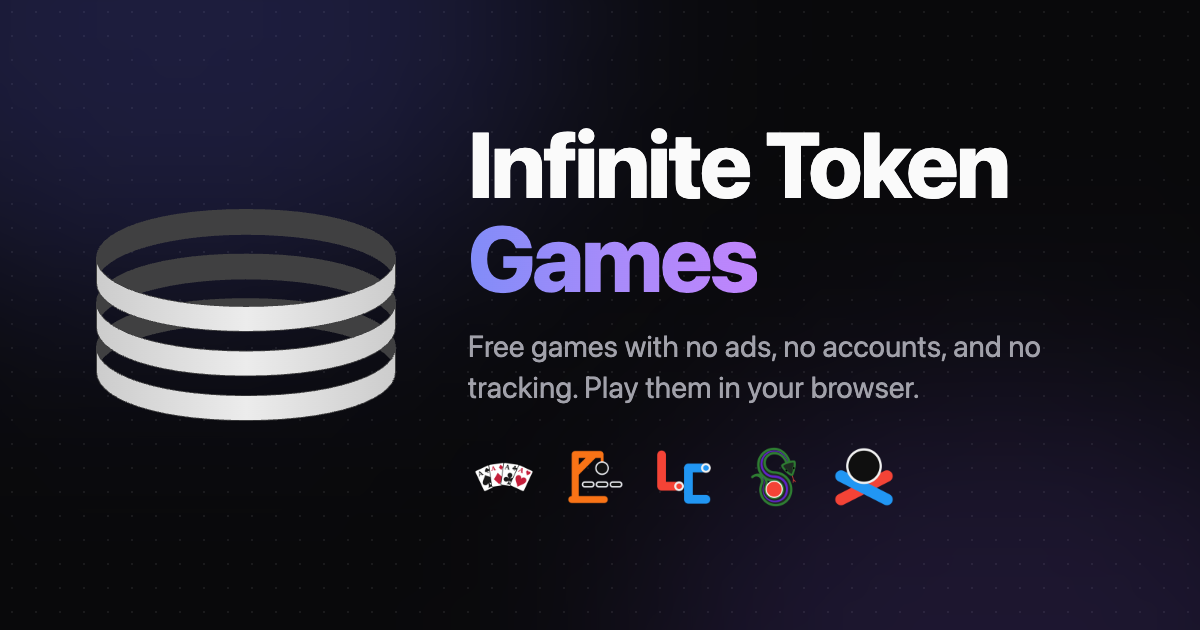
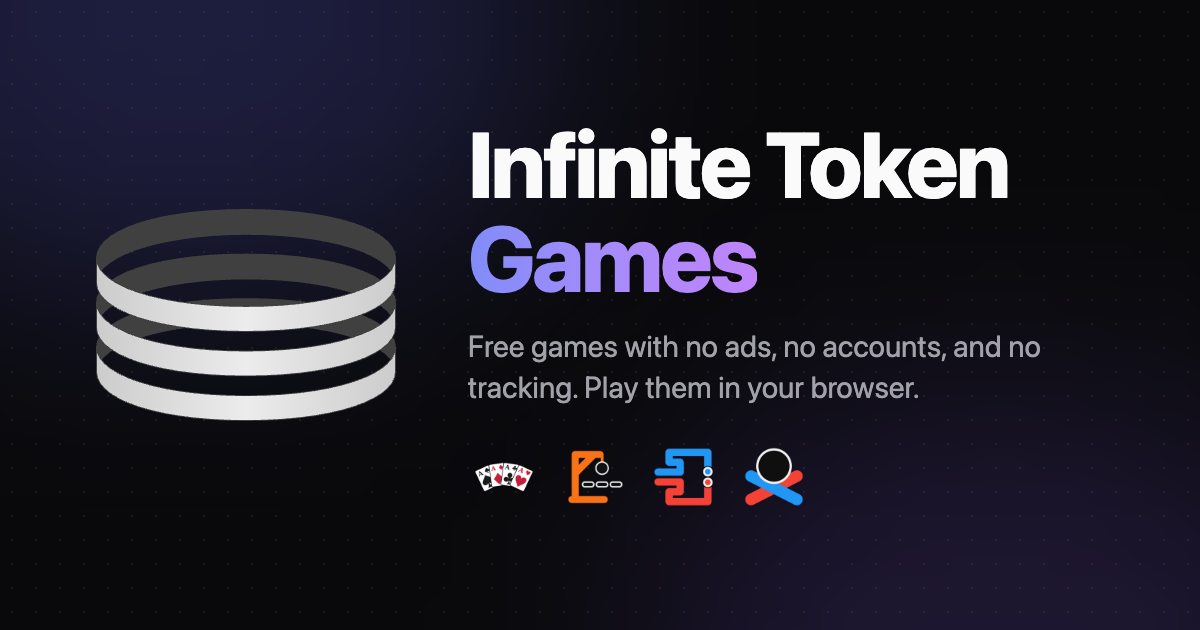
CardTastic and DuelTastic replace Solitaire, LightCycles and Snake: CardTastic at /cardtastic/ (Solitaire's formerSlugs, so /solitaire/... 308s to the same page under /cardtastic/), and DuelTastic at /dueltastic/, a pack whose games field lists Trap, Turf, Tag and Snake, each linked from its card an

Changed region(s): [[0.5242, 0.6937, 0.74, 0.8143]]

diff --git a/src/constants/site.ts b/src/constants/site.ts
@@ -37,14 +37,20 @@ export type StoreLinks = {
   googlePlay?: string
 }
 
+/** One game inside a pack: its name and the page the pack's Home opens for it, relative to the pack's /<slug>/.
+ *  `formerSlug` is the path it had as an app of its own: /<formerSlug> and everything under it 308 to this page
+ *  (src/utils/vercelRoutes.ts), since its old pages have no counterpart in the pack. */
+export type PackGame = { name: string; path: string; formerSlug?: string }
+
 export type TasticGame = StoreLinks & {
   /** The path the game is served at (games.infinitetoken.com/<slug>/) and its Vercel project's name */
   slug: string
   /** The home-screen and web name */
   name: string
   author: Author
-  /** The App Store name, the game's eas.json submit.production.ios.appName: the name plus "Tastic", except
-   *  LightCycleTastic (Jay, 2026-10-19) */
+  /** The App Store name, the game's eas.json submit.production.ios.appName: the name plus "Tastic", or the name itself
+   *  for a pack, whose name already ends in Tastic, except CardTastic's "CardTastic: Solitaire & More" ("CardTastic"
+   *  alone was taken) */
   storeName: string
   description: string
   /** The game's splash art (assets/images/splash-dark.png at 192px), transparent, drawn bare on the dark card */
@@ -53,18 +59,24 @@ export type TasticGame = StoreLinks & {
   /** The game's own production deployment, which /<slug>/ is proxied to (see src/utils/vercelRoutes.ts). The
    *  <project>-infinite-token.vercel.app aliases sit behind Vercel's login, so these are the public production aliases. */
   origin: string
+  /** Paths the game was served at before a rename, each redirected to /<slug>/ with the rest of the path kept */
+  formerSlugs?: string[]
+  /** A pack's games, in its Home's order: the card links each one, and the sitemap lists them */
+  games?: PackGame[]
 }
 
 export const TASTIC_GAMES: TasticGame[] = [
   {
-    slug: 'solitaire',
-    name: 'Solitaire',
+    slug: 'cardtastic',
+    name: 'CardTastic',
     author: AUTHORS.jay,
-    storeName: 'SolitaireTastic',
-    description: 'Eleven classic solitaire games in one, from Klondike and FreeCell to Pyramid and Aces Up.',
-    icon: '/images/tastic/solitaire.png',
-    repo: 'https://github.com/jayrdeaton/Solitaire',
-    origin: 'https://solitaire-bay.vercel.app'
+    storeName: 'CardTastic: Solitaire & More',
+    description: 'Twenty card games in one: eleven solitaire games and nine to play together, from Klondike and FreeCell to Gin Rummy and Crazy Eights.',
+    icon: '/images/tastic/cardtastic.png',
+    repo: 'https://github.com/jayrdeaton/CardTastic',
+    origin: 'https://cardtastic-web.vercel.app',
+    // Solitaire until 2026-11-11
+    formerSlugs: ['solitaire']
   },
   {
     slug: 'hangman',
@@ -77,24 +89,21 @@ export const TASTIC_GAMES: TasticGame[] = [
     origin: 'https://hangman-teal-psi.vercel.app'
   },
   {
-    slug: 'lightcycles',
-    name: 'LightCycles',
+    slug: 'dueltastic',
+    name: 'DuelTastic',
     author: AUTHORS.jay,
-    storeName: 'LightCycleTastic',
-    description: 'A light-cycle duel for two players on one screen, or one player against the CPU. Last rider still riding wins the round.',
-    icon: '/images/tastic/lightcycles.png',
-    repo: 'https://github.com/jayrdeaton/LightCycles',
-    origin: 'https://lightcycles-three.vercel.app'
-  },
-  {
-    slug: 'snake',
-    name: 'Snake',
-    author: AUTHORS.jay,
-    storeName: 'SnakeTastic',
-    description: 'Classic Snake, rebuilt for one shared screen: solo, against a CPU, or head-to-head with a friend.',
-    icon: '/images/tastic/snake.png',
-    repo: 'https://github.com/jayrdeaton/Snake',
-    origin: 'https://snake-drab-kappa.vercel.app'
+    storeName: 'DuelTastic',
+    description: 'Four duel games in one: Trap, Turf, Tag and Snake. Take on the CPU, or face a friend on one shared screen.',
+    icon: '/images/tastic/dueltastic.png',
+    repo: 'https://github.com/jayrdeaton/DuelTastic',
+    origin: 'https://dueltastic.vercel.app',
+    // LightCycles (as Trap) and Snake were apps of their own until 2026-11-11
+    games: [
+      { name: 'Trap', path: 'loadout/trap', formerSlug: 'lightcycles' },
+      { name: 'Turf', path: 'loadout/turf' },
+      { name: 'Tag', path: 'loadout/tag' },
+      { name: 'Snake', path: 'loadout/snake', formerSlug: 'snake' }
+    ]
   },
   {
     slug: 'boxhockey',

diff --git a/src/__tests__/vercelRoutes.test.ts b/src/__tests__/vercelRoutes.test.ts
@@ -8,7 +8,7 @@ const resolve = (path: string) => {
   for (const route of vercelRoutes(TASTIC_GAMES)) {
     const match = new RegExp(route.src).exec(path)
     if (!match) continue
-    return 'dest' in route ? { proxy: route.dest.replace('$1', match[1] ?? '') } : { redirect: route.headers.Location, status: route.status }
+    return 'dest' in route ? { proxy: route.dest.replace('$1', match[1] ?? '') } : { redirect: route.headers.Location?.replace('$1', match[1] ?? ''), status: route.status }
   }
   return null
 }
@@ -25,6 +25,30 @@ describe('vercelRoutes', () => {
 
   it.each(TASTIC_GAMES)('redirects the bare /$slug to /$slug/ permanently', ({ slug }) => {
     expect(resolve(`/${slug}`)).toEqual({ redirect: `/${slug}/`, status: 308 })
+  })
+
+  it("redirects a renamed game's old path, and everything under it, to the same place under its new one", () => {
+    const renamed = TASTIC_GAMES.filter((g) => g.formerSlugs?.length)
+    expect(renamed.map((g) => g.slug)).toContain('cardtastic')
+    for (const { slug, formerSlugs = [] } of renamed) {
+      for (const former of formerSlugs) {
+        expect(resolve(`/${former}`)).toEqual({ redirect: `/${slug}/`, status: 308 })
+        expect(resolve(`/${former}/`)).toEqual({ redirect: `/${slug}/`, status: 308 })
+        expect(resolve(`/${former}/play/klondike`)).toEqual({ redirect: `/${slug}/play/klondike`, status: 308 })
+      }
+    }
+  })
+
+  it('redirects a game that moved into a pack, and everything under its old path, to its page in the pack', () => {
+    const moved = TASTIC_GAMES.flatMap(({ slug, games = [] }) => games.filter((g) => g.formerSlug).map((g) => ({ ...g, pack: slug })))
+    expect(moved.map((g) => g.formerSlug)).toEqual(expect.arrayContaining(['lightcycles', 'snake']))
+    for (const { formerSlug, pack, path } of moved) {
+      for (const old of [`/${formerSlug}`, `/${formerSlug}/`, `/${formerSlug}/loadout`, `/${formerSlug}/_expo/static/js/web/entry.js`]) {
+        expect(resolve(old)).toEqual({ redirect: `/${pack}/${path}`, status: 308 })
+      }
+    }
+    expect(resolve('/lightcycles/')).toEqual({ redirect: '/dueltastic/loadout/trap', status: 308 })
+    expect(resolve('/snake')).toEqual({ redirect: '/dueltastic/loadout/snake', status: 308 })
   })
 
   it("leaves this site's own pages alone, including the 6502 pages that share a game's name", () => {

diff --git a/src/pages/privacy.vue b/src/pages/privacy.vue
@@ -30,7 +30,7 @@
 
       <section :class="section">
         <h2 :class="heading">Game Updates</h2>
-        <p :class="body">When you open one of the mobile apps, it checks for a game update using Expo's update service. That request includes technical details needed to deliver the right update, such as the app version and platform, and a random installation ID that isn't linked to you. Like any internet request, it also includes your IP address. It never includes your profiles, progress, or other game data. See <a href="https://expo.dev/privacy" target="_blank" rel="noopener" :class="link">Expo's Privacy Policy</a>.</p>
+        <p :class="body">When you open one of the mobile apps, it checks for a game update using Expo's update service. That request includes technical details needed to deliver the right update, such as the app version and platform, and a random installation ID that isn't linked to you. If an update fails to start, the next check also reports which update failed and the error it hit, so a broken update can be fixed. Like any internet request, it also includes your IP address. It never includes your profiles, progress, or other game data. See <a href="https://expo.dev/privacy" target="_blank" rel="noopener" :class="link">Expo's Privacy Policy</a>.</p>
       </section>
 
       <section :class="section">
@@ -78,7 +78,7 @@
 import { EMULATOR, SITE, TASTIC_GAMES } from '~/constants/site'
 import { backLink, body, card, link } from '~/constants/styles'
 
-const UPDATED = 'October 22, 2026'
+const UPDATED = 'November 11, 2026'
 const names = TASTIC_GAMES.map((g) => g.storeName)
 const storeNames = `${names.slice(0, -1).join(', ')}, and ${names.at(-1)}`
 

diff --git a/src/__tests__/seo.test.ts b/src/__tests__/seo.test.ts
@@ -10,11 +10,12 @@ const PAGES_DIR = resolve(process.cwd(), 'src/pages')
 const pageFiles = readdirSync(PAGES_DIR, { recursive: true, encoding: 'utf-8' }).filter((file) => file.endsWith('.vue'))
 
 describe('search', () => {
-  it('lists every page, game and cartridge in the sitemap', () => {
+  it('lists every page, game, pack game and cartridge in the sitemap', () => {
     const fixed = pageFiles.filter((file) => !file.includes('[')).map((file) => (file === 'index.vue' ? '/' : `/${file.replace(/\.vue$/, '')}`))
-    const games = TASTIC_GAMES.map((g) => `/${g.slug}/`)
+    const games = TASTIC_GAMES.flatMap((g) => [`/${g.slug}/`, ...(g.games ?? []).map((p) => `/${g.slug}/${p.path}`)])
     const carts = CARTRIDGES.map((c) => `/6502/${c.slug}`)
     expect([...SITEMAP_PATHS].sort()).toEqual([...fixed, ...games, ...carts].sort())
+    expect(SITEMAP_PATHS).toContain('/dueltastic/loadout/trap')
   })
 
   it('has every page set its own title, description and canonical link', () => {
@@ -26,9 +27,9 @@ describe('search', () => {
   })
 
   it('gives each page its full address', () => {
-    const xml = sitemapXml(['/', '/solitaire/'])
+    const xml = sitemapXml(['/', '/cardtastic/'])
     expect(xml).toContain('<loc>https://games.infinitetoken.com/</loc>')
-    expect(xml).toContain('<loc>https://games.infinitetoken.com/solitaire/</loc>')
+    expect(xml).toContain('<loc>https://games.infinitetoken.com/cardtastic/</loc>')
     expect(xml.startsWith('<?xml version="1.0" encoding="UTF-8"?>')).toBe(true)
   })
 })

diff --git a/src/utils/vercelRoutes.ts b/src/utils/vercelRoutes.ts
@@ -4,8 +4,13 @@
 // Nitro places ahead of its own routes in .vercel/output/config.json.
 export type VercelRoute = { src: string; dest: string } | { src: string; status: number; headers: Record<string, string> }
 
-export const vercelRoutes = (games: { slug: string; origin: string }[]): VercelRoute[] =>
-  games.flatMap(({ slug, origin }) => [
+export const vercelRoutes = (games: { slug: string; origin: string; formerSlugs?: string[]; games?: { path: string; formerSlug?: string }[] }[]): VercelRoute[] =>
+  games.flatMap(({ slug, origin, formerSlugs = [], games: packGames = [] }) => [
+    // A game's old path after a rename (Solitaire became CardTastic, 2026-11-11) goes to the same page under its new one
+    ...formerSlugs.map((former) => ({ src: `^/${former}(?:/(.*))?$`, status: 308, headers: { Location: `/${slug}/$1` } })),
+    // A game that was an app of its own and is now in a pack (LightCycles and Snake went into DuelTastic, 2026-11-11):
+    // its old path and everything under it go to its page in the pack, since its old pages have no counterpart there
+    ...packGames.flatMap(({ path, formerSlug }) => (formerSlug ? [{ src: `^/${formerSlug}(?:/.*)?$`, status: 308, headers: { Location: `/${slug}/${path}` } }] : [])),
     // Expo Router's home route under a base URL is /<slug>/, and a relative asset URL resolved from /<slug> would
     // miss the game's folder, so the bare path redirects first
     { src: `^/${slug}$`, status: 308, headers: { Location: `/${slug}/` } },

diff --git a/src/utils/seo.ts b/src/utils/seo.ts
@@ -13,9 +13,9 @@ export const HOME_TITLE = `${SITE.company.name} | Games`
 /** The home page's description in search results and link previews: the games by name, which is what people search for */
 export const HOME_DESCRIPTION = `Free games with no ads, no accounts and no tracking: ${listNames(TASTIC_GAMES.map((g) => g.name))}, plus 6502 cartridges. Play them in your browser.`
 
-/** Every page search engines should index: this site's pages and the Tastic games proxied under /<slug>/, which are
- *  what people come for. Served as /sitemap.xml by server/routes/sitemap.xml.ts, prerendered (nuxt.config.ts) */
-export const SITEMAP_PATHS = ['/', ...TASTIC_GAMES.map((g) => `/${g.slug}/`), ...CARTRIDGES.map((c) => `/6502/${c.slug}`), '/support', '/privacy']
+/** Every page search engines should index: this site's pages and the Tastic games proxied under /<slug>/ (a pack's
+ *  games' own pages too), which are what people come for. Served as /sitemap.xml by server/routes/sitemap.xml.ts, prerendered (nuxt.config.ts) */
+export const SITEMAP_PATHS = ['/', ...TASTIC_GAMES.flatMap((g) => [`/${g.slug}/`, ...(g.games ?? []).map((p) => `/${g.slug}/${p.path}`)]), ...CARTRIDGES.map((c) => `/6502/${c.slug}`), '/support', '/privacy']
 
 export const sitemapXml = (paths: string[]) => {
   const urls = paths.map((path) => `  <url><loc>${pageUrl(path)}</loc></url>`).join('\n')

diff --git a/src/__tests__/app.test.ts b/src/__tests__/app.test.ts
@@ -180,10 +180,15 @@ describe('site content', () => {
     for (const u of all.match(/"(https?:[^"]+)"/g) ?? []) expect(u).toMatch(/^"https:\/\//)
   })
 
-  it('names each store listing after its game, plus "Tastic"', () => {
-    // Jay named LightCycles' listing LightCycleTastic (2026-10-19)
-    const exceptions: Record<string, string> = { LightCycles: 'LightCycleTastic' }
-    for (const game of TASTIC_GAMES) expect(game.storeName).toBe(exceptions[game.name] ?? `${game.name}Tastic`)
+  it('names each store listing after its game, plus "Tastic" unless it already ends in it', () => {
+    // "CardTastic" alone was taken on the App Store (2026-11-08)
+    const exceptions: Record<string, string> = { CardTastic: 'CardTastic: Solitaire & More' }
+    for (const game of TASTIC_GAMES) expect(game.storeName).toBe(exceptions[game.name] ?? (game.name.endsWith('Tastic') ? game.name : `${game.name}Tastic`))
+  })
+
+  it("links a pack's games from its card", async () => {
+    const wrapper = await mountSuspended(App, { route: '/' })
+    for (const { slug, games = [] } of TASTIC_GAMES) for (const { name, path } of games) expect(wrapper.find(`a[href="/${slug}/${path}"]`).text()).toBe(name)
   })
 
   it('links store listings in their short, region-free form', () => {

diff --git a/scripts/og-image.html b/scripts/og-image.html
@@ -48,10 +48,9 @@
       <h1>Infinite Token<br /><span class="games">Games</span></h1>
       <p>Free games with no ads, no accounts, and no tracking. Play them in your browser.</p>
       <div class="icons">
-        <img src="../public/images/tastic/solitaire.png" alt="" />
+        <img src="../public/images/tastic/cardtastic.png" alt="" />
         <img src="../public/images/tastic/hangman.png" alt="" />
-        <img src="../public/images/tastic/lightcycles.png" alt="" />
-        <img src="../public/images/tastic/snake.png" alt="" />
+        <img src="../public/images/tastic/dueltastic.png" alt="" />
         <img src="../public/images/tastic/boxhockey.png" alt="" />
       </div>
     </div>

diff --git a/src/pages/index.vue b/src/pages/index.vue
@@ -39,6 +39,12 @@
               </div>
             </div>
             <p :class="body" class="mb-5">{{ game.description }}</p>
+            <!-- A pack's games, each straight to its page in the pack -->
+            <ul v-if="game.games?.length" :aria-label="`${game.name} games`" class="-mt-2 mb-5 flex flex-wrap gap-x-4 gap-y-1 text-sm">
+              <li v-for="g in game.games" :key="g.path">
+                <a :href="`/${game.slug}/${g.path}`" :class="link">{{ g.name }}</a>
+              </li>
+            </ul>
             <div class="mt-auto flex flex-wrap gap-3">
               <a :href="`/${game.slug}/`" :class="primaryButton">Play</a>
               <StoreButtons :links="game" />

diff --git a/.claude/CLAUDE.md b/.claude/CLAUDE.md
@@ -4,7 +4,7 @@ This file provides guidance to Claude Code when working in this repository.
 
 # Games-Web
 
-The hub at https://games.infinitetoken.com, created 2026-10-17. It lists the Tastic games (Solitaire, Hangman, LightCycles, Snake, BoxHockey), Swirlio under More to Play, the ones coming soon, and the 6502 cartridges (A.C. Wright's Wizards Lab, then Snake and LightCycles; Pong is hidden for now), hosts the one privacy policy and support page for all of them, and puts every Tastic game's web version on this one origin at `/<slug>/`. The point of the single origin: localStorage is per origin, so only on one origin can the web games share player profiles the way the iOS apps do through the App Group `group.com.infinitetoken.tastic` (the web side of that lives in `@tastic/profile`). Before this, each game had its own subdomain (`<slug>.infinitetoken.com`); those now redirect here, from each game's own `vercel.json`.
+The hub at https://games.infinitetoken.com, created 2026-10-17. It lists the Tastic games (CardTastic, Solitaire until 2026-11-11, Hangman, DuelTastic, LightCycles and Snake until 2026-11-11, BoxHockey), Swirlio under More to Play, the ones coming soon, and the 6502 cartridges (A.C. Wright's Wizards Lab, then Snake and LightCycles; Pong is hidden for now), hosts the one privacy policy and support page for all of them, and puts every Tastic game's web version on this one origin at `/<slug>/`. The point of the single origin: localStorage is per origin, so only on one origin can the web games share player profiles the way the iOS apps do through the App Group `group.com.infinitetoken.tastic` (the web side of that lives in `@tastic/profile`). Before this, each game had its own subdomain (`<slug>.infinitetoken.com`); those now redirect here, from each game's own `vercel.json`.
 
 ## Commands
 
@@ -50,13 +50,14 @@ The mark is the Infinite Token rings (Jay's call over Expo-Starter's diamond, wh
 
 - **More to Play:** `MORE_TO_PLAY` in `site.ts`, apps that aren't Tastic games, so far Swirlio (a kaleidoscope toy, store name plain `Swirlio`). It doesn't share player profiles, and it lives on its own site, https://swirlio.infinitetoken.com, whose `/privacy` and `/support` pages its App Store listing points at, so its card's Play button links out (new tab) rather than proxying it under `/<slug>/`, and this site's privacy and support pages leave it out. Moving it under `/swirlio/` would change those listing URLs. Its icon is its dark splash art at 192px like the Tastic ones (white art, which the dark-only site shows as is; the light-mode swap it had went with light mode, 2026-10-22).
 - **Store links:** `appStore` and `googlePlay` on a `TASTIC_GAMES` or `MORE_TO_PLAY` entry, set only once the listing is live, in the short, region-free form (`https://apps.apple.com/app/id<id>`, `https://play.google.com/store/apps/details?id=<package>`; a test pins it). `src/components/StoreButtons.vue` adds an App Store and a Google Play button between Play and Source. The Tastic intro says "iPhone and iPad versions are coming to the App Store" until every Tastic game has `appStore`. On 2026-10-20 BoxHockey, Snake, Solitaire, Swirlio and LightCycles were in App Review, Hangman was on its way, and Google Play waited on an Infinite Token organization account. The site-alignment skill's check looks each game up by bundle ID and flags one that's live but unlinked.
-- **Store names:** `storeName` is the game's `eas.json` `submit.production.ios.appName`: the name plus "Tastic", except LightCycles' `LightCycleTastic` (Jay, 2026-10-19), which the store-name test lists as its one exception.
+- **Store names:** `storeName` is the game's `eas.json` `submit.production.ios.appName`: the name plus "Tastic", or the name itself for a pack (DuelTastic), whose name already ends in it. The store-name test lists the exceptions (CardTastic's `CardTastic: Solitaire & More`); LightCycles' `LightCycleTastic` was one until it went into DuelTastic.
 
 ## How the games are served
 
-- `src/utils/vercelRoutes.ts` turns `TASTIC_GAMES` into Vercel Build Output API routes: `^/<slug>$` 308s to `/<slug>/` (Expo Router's home under a base URL is `/<slug>/`, and relative asset URLs resolved from the bare path miss the folder), `^/<slug>/$` proxies to the bare `<origin>/<slug>`, and `^/<slug>/(.*)$` proxies to `<origin>/<slug>/$1`. The home page goes to the bare path because a game built with `cleanUrls` (static output) serves its home at `/<slug>` and answers 404 at `/<slug>/`, which its `/:game/:path*` catch-all doesn't match: before 2026-10-18 the live Snake and LightCycles home pages were 404s through here (Solitaire's only worked from Vercel's cache). Every game serves the same page at the bare path, Hangman's single output included. `nuxt.config.ts` passes them as `nitro.vercel.config.routes`; Nitro's Vercel presets `defu` that config into `.vercel/output/config.json` with ours first (`nitropack/dist/presets/vercel/utils.mjs`, `generateBuildConfig`). Nitro's own `routeRules` can't do this: its Vercel output maps only `redirect` and `headers` rules, not `proxy`.
+- `src/utils/vercelRoutes.ts` turns `TASTIC_GAMES` into Vercel Build Output API routes: `^/<slug>$` 308s to `/<slug>/` (Expo Router's home under a base URL is `/<slug>/`, and relative asset URLs resolved from the bare path miss the folder), `^/<slug>/$` proxies to the bare `<origin>/<slug>`, and `^/<slug>/(.*)$` proxies to `<origin>/<slug>/$1`. The home page goes to the bare path because a game built with `cleanUrls` (static output) serves its home at `/<slug>` and answers 404 at `/<slug>/`, which its `/:game/:path*` catch-all doesn't match: before 2026-10-18 the live Snake and LightCycles home pages were 404s through here (Solitaire's only worked from Vercel's cache). Every game serves the same page at the bare path, Hangman's single output included. `nuxt.config.ts` passes them as `nitro.vercel.config.routes`; Nitro's Vercel presets `defu` that config into `.vercel/output/config.json` with ours first (`nitropack/dist/presets/vercel/utils.mjs`, `generateBuildConfig`). Nitro's own `routeRules` can't do this: its Vercel output maps only `redirect` and `headers` rules, not `proxy`. A renamed game lists its old paths in `formerSlugs`, and each 308s to the same page under the new one (`/solitaire/play/klondike` to `/cardtastic/play/klondike`, since Solitaire became CardTastic on 2026-11-11), ahead of the game's own routes. Deploy order for a rename: the game's own deployment first, serving its export under the new path, then the hub.
+- **Packs (2026-11-11):** a pack (DuelTastic) lists its games in `games`, each with the page the pack's Home opens for it (`loadout/trap`). The card links each one under its description, and the sitemap lists them. A game that was an app of its own names its old path in `formerSlug`, and `/<formerSlug>` and everything under it 308 to that page (LightCycles to `/dueltastic/loadout/trap`, Snake to `/dueltastic/loadout/snake`), since its old pages have no counterpart in the pack; a rename keeps the path instead (`formerSlugs` above). Deploy order is the same: the pack's own deployment first, then the hub. The old games' Vercel projects are deleted once the hub forwards their paths.
 - Each game builds its Expo web export under `/<slug>/` itself (its `experiments.baseUrl`, set only for web builds, and an output folder of `dist/<slug>`), so its own deployment serves `/<slug>/...` and the hub forwards paths unchanged.
-- `origin` is each game's public production alias (`snake-drab-kappa.vercel.app` and so on). The `<project>-infinite-token.vercel.app` aliases answer 302 behind Vercel's login, so they can't be proxied.
+- `origin` is each game's public production alias (`hangman-teal-psi.vercel.app` and so on). The `<project>-infinite-token.vercel.app` aliases answer 302 behind Vercel's login, so they can't be proxied.
 - The Tastic game links are plain `<a href="/<slug>/">`, never NuxtLink: they leave this app. `nitro.prerender.ignore` keeps the crawler off them.
 - `npm run dev` doesn't proxy the games. To try everything together locally, build the site (`NITRO_PRESET=vercel-static npm run build`) and serve `.vercel/output/static` next to each game's `dist/<slug>` with rewrites that mirror production.
 
